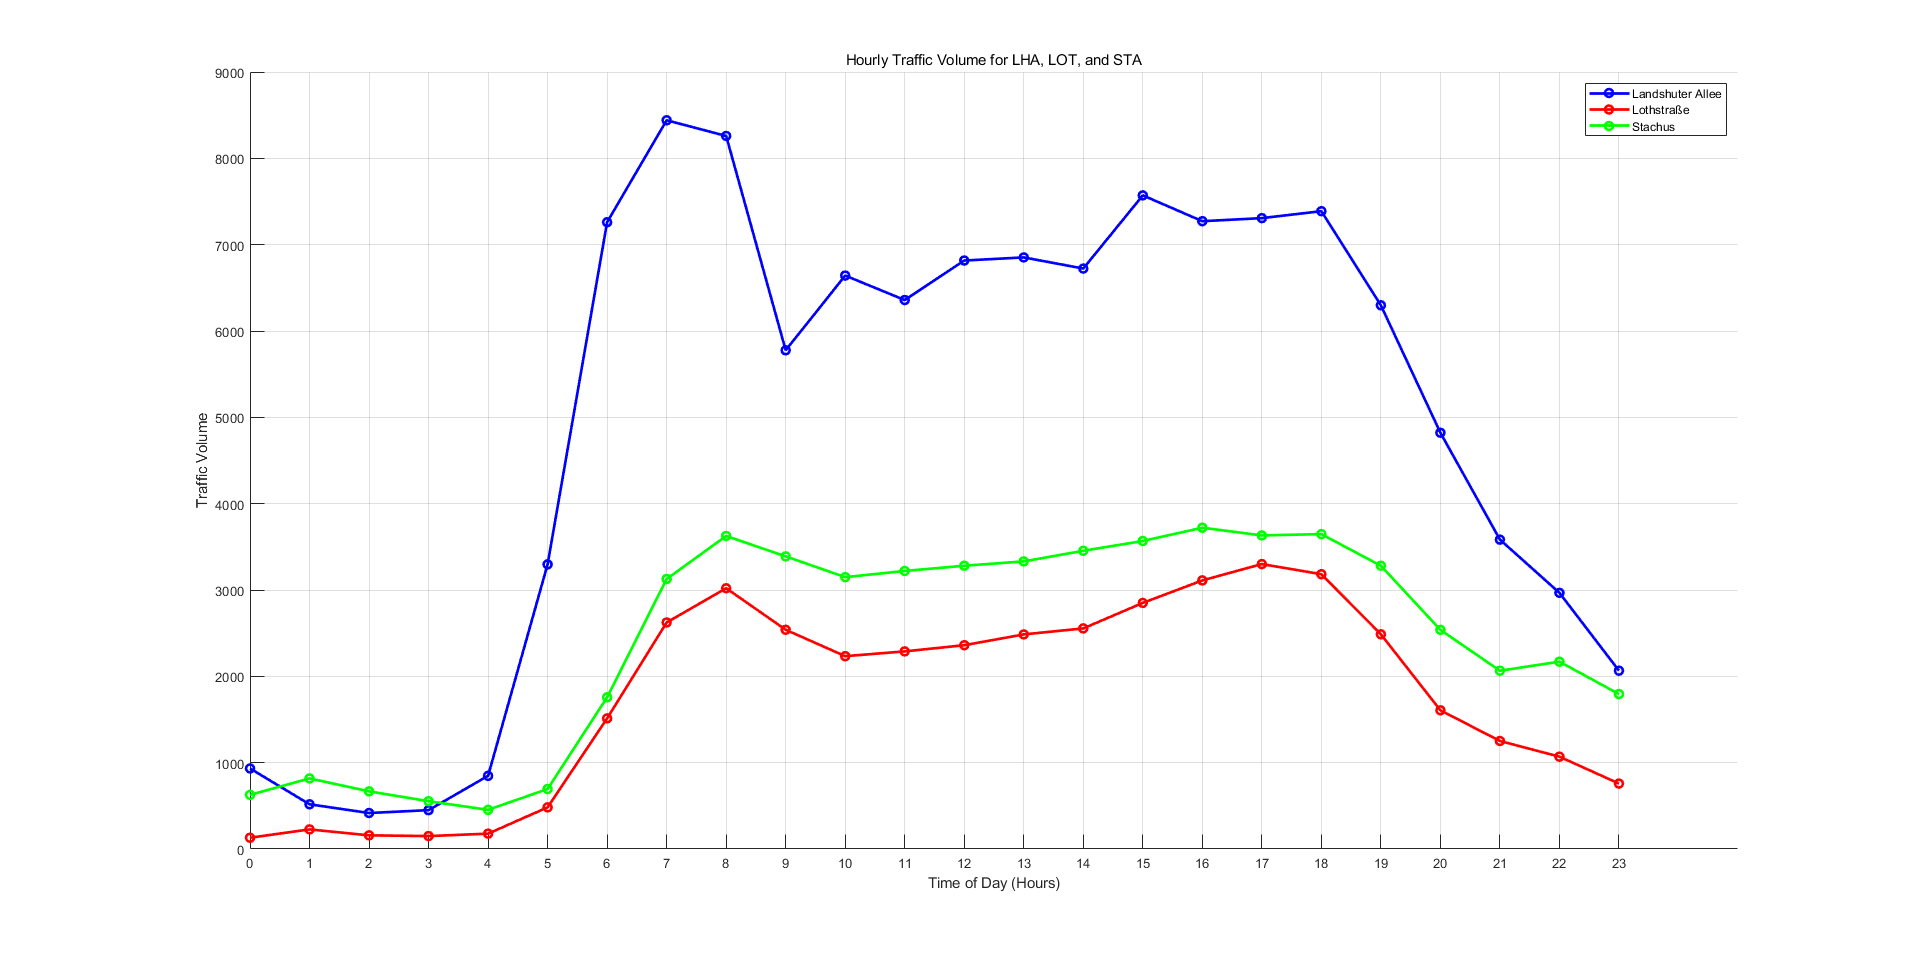
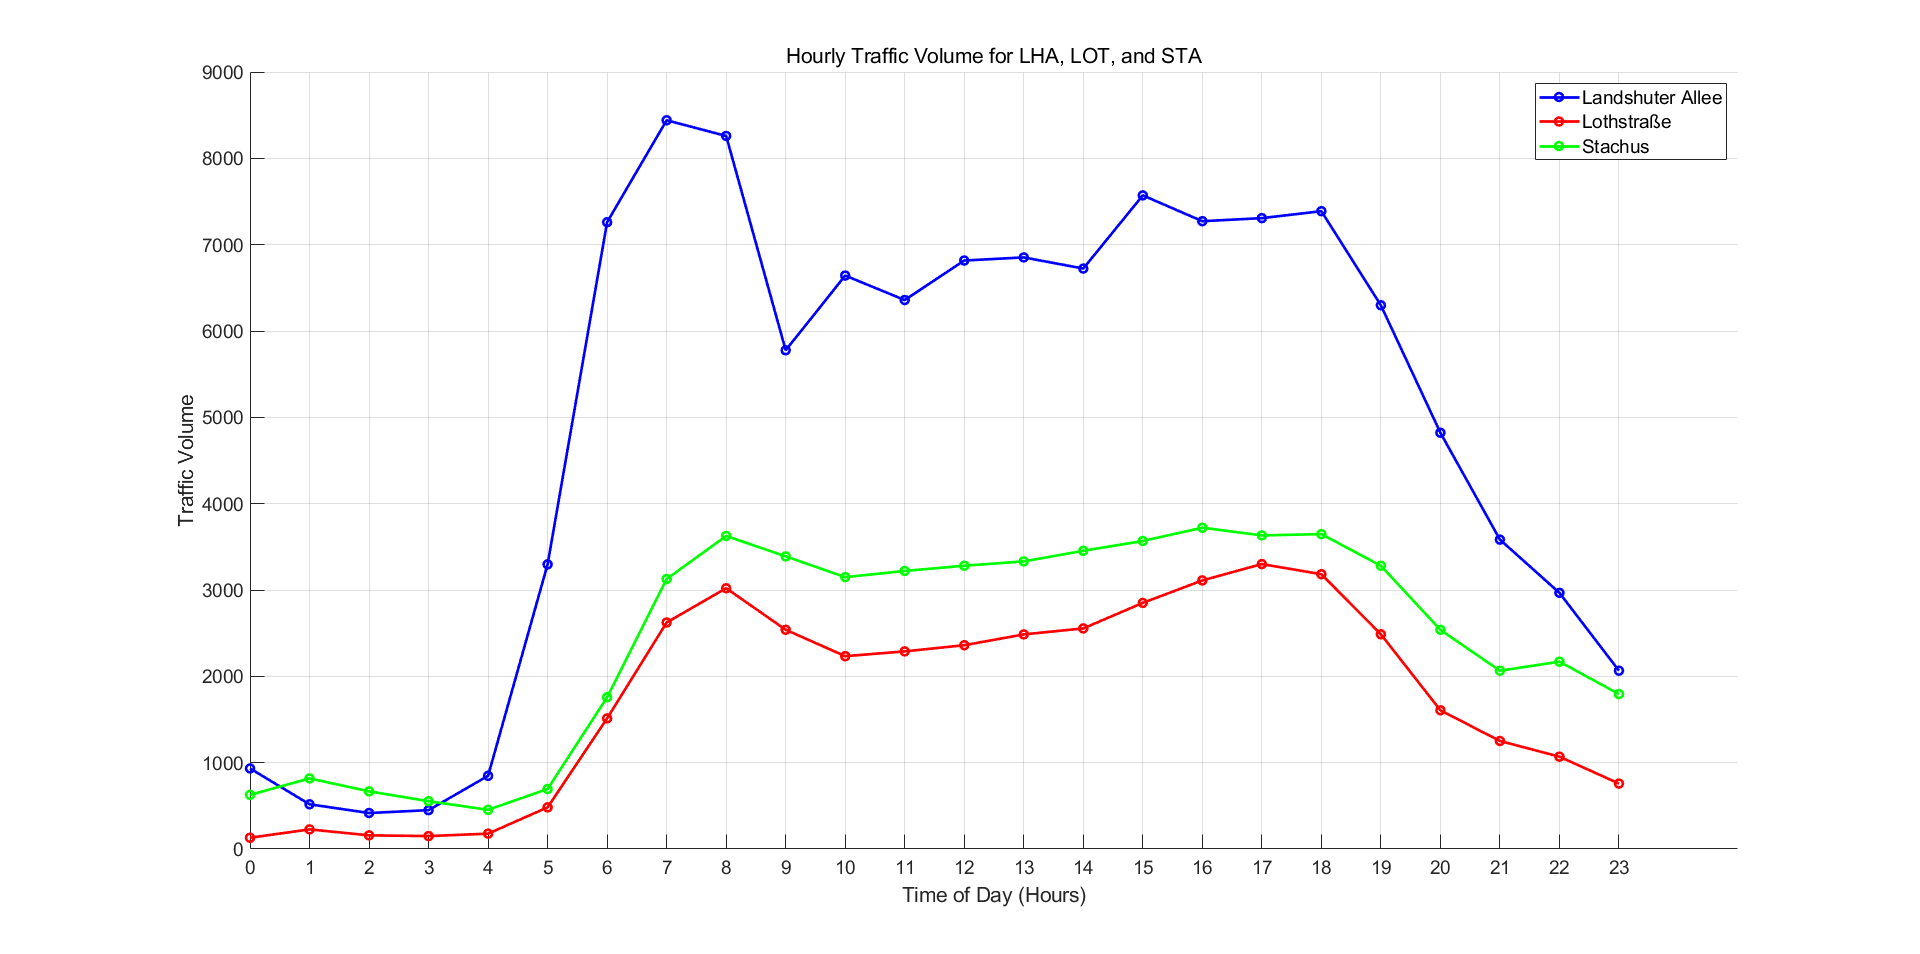
fix

diff --git a/visualizeNO2Data.m b/visualizeNO2Data.m
@@ -1,5 +1,7 @@
 %% 5个检测站NO2浓度与时间关系的可视化
 function visualizeNO2Data()
+    clc;
+    clear all;
     new_table = processMultipleCSVFiles();
     
     % 检查返回的表格是否为空
@@ -33,18 +35,23 @@ function visualizeNO2Data()
     plot(time, NO2_Allach_ppb, '-c', 'DisplayName', 'Allach');
     plot(time, NO2_Johanneskirchen_ppb, '-m', 'DisplayName', 'Johanneskirchen');
     hold off;
+
     xlabel('Time');
     ylabel('NO2 (ppb)');
-    title('NO2 mixing ratios in the last 48 hours');
+    title('NO2 mixing ratios in 48 hours');
+    legend('FontSize', 14);
+    set(gca, 'FontSize', 14);
     legend show;
     grid on;
 
-    % 柱状图
-    figure(2);
-    bar(time, [NO2_Landshuter_Allee_ppb, NO2_Stachus_ppb, NO2_Lothstrasse_ppb, NO2_Allach_ppb, NO2_Johanneskirchen_ppb]);
-    xlabel('Time');
-    ylabel('NO2 (ppb)');
-    title('NO2 mixing ratios in the last 48 hours');
-    legend({'Landshuter Allee', 'Stachus', 'Lothstraße', 'Allach', 'Johanneskirchen'});
-    grid on;
+    % % 柱状图
+    % figure(2);
+    % bar(time, [NO2_Landshuter_Allee_ppb, NO2_Stachus_ppb, NO2_Lothstrasse_ppb, NO2_Allach_ppb, NO2_Johanneskirchen_ppb]);
+    % xlabel('Time');
+    % ylabel('NO2 (ppb)');
+    % title('NO2 mixing ratios in the last 48 hours');
+    % legend({'Landshuter Allee', 'Stachus', 'Lothstraße', 'Allach', 'Johanneskirchen'});
+    % legend('FontSize', 14);
+    % set(gca, 'FontSize', 14);
+    % grid on;
 end

diff --git a/processMultipleCSVFiles.m b/processMultipleCSVFiles.m
@@ -2,11 +2,11 @@
 function new_table = processMultipleCSVFiles()
     % 文件选择
     prompts = {
-        '请选择Landshuter Allee的数据', ...
-        '请选择Stachus的数据', ...
-        '请选择Lothstraße 的数据', ...
-        '请选择Allach的数据', ...
-        '请选择Johanneskirchen的数据'
+        'Please select Data of Landshuter Allee!', ...
+        'Please select Data of Stachus!', ...
+        'Please select Data of Lothstraße!', ...
+        'Please select Data of Allach!', ...
+        'Please select Data of Johanneskirchen!'
     };
 
     % 初始化变量

diff --git a/Traffic.m b/Traffic.m
@@ -26,5 +26,7 @@ xlabel('Time of Day (Hours)');
 ylabel('Traffic Volume');
 title('Hourly Traffic Volume for LHA, LOT, and STA');
 legend;
+legend('FontSize', 14);
+set(gca, 'FontSize', 14);
 hold off;
 
